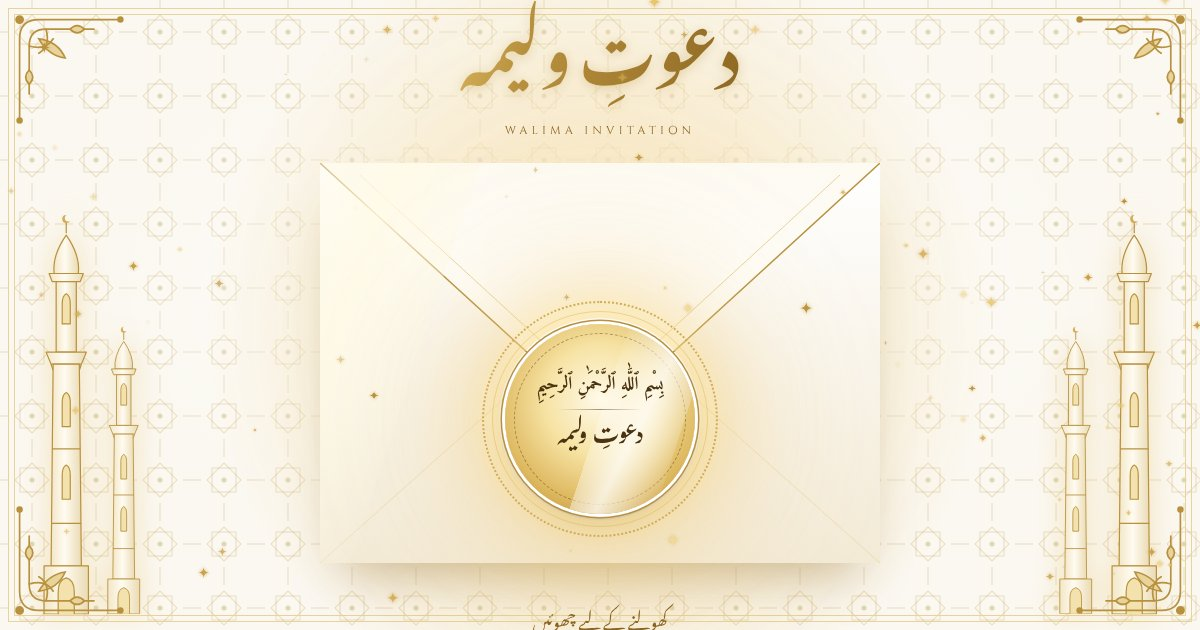
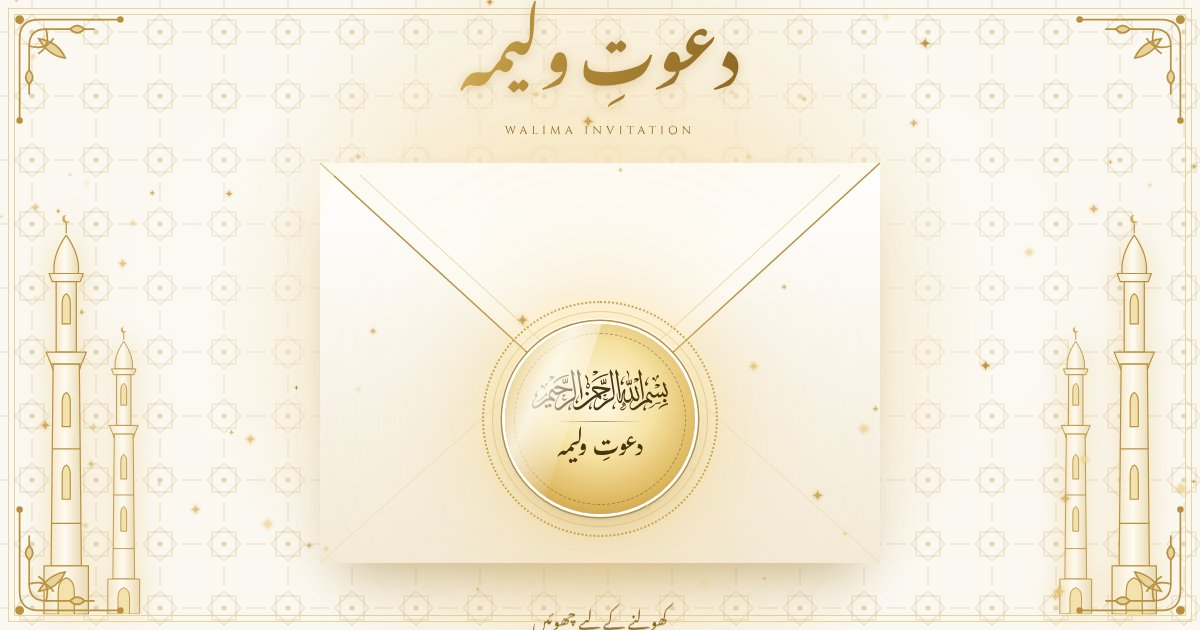
White card: Thuluth Bismillah calligraphy (Hadysylmy, CC BY-SA 4.0) on seal and card; ayah in Quranic script
Claude-Session: https://claude.ai/code/session_0114uiG5UvM8er5AcL78Nz6p

diff --git a/wedding-card-white/index.html b/wedding-card-white/index.html
@@ -17,7 +17,7 @@
 <meta name="twitter:card" content="summary_large_image">
 <link rel="preconnect" href="https://fonts.googleapis.com">
 <link rel="preconnect" href="https://fonts.gstatic.com" crossorigin>
-<link rel="stylesheet" href="https://fonts.googleapis.com/css2?family=Amiri:wght@400;700&family=Gulzar&family=Noto+Nastaliq+Urdu:wght@400;600;700&family=Playfair+Display:ital,wght@1,500&family=Cinzel:wght@400;500&family=EB+Garamond:ital,wght@0,400;0,500;1,400&family=Tiro+Devanagari+Hindi&display=swap">
+<link rel="stylesheet" href="https://fonts.googleapis.com/css2?family=Amiri:wght@400;700&family=Amiri+Quran&family=Gulzar&family=Noto+Nastaliq+Urdu:wght@400;600;700&family=Playfair+Display:ital,wght@1,500&family=Cinzel:wght@400;500&family=EB+Garamond:ital,wght@0,400;0,500;1,400&family=Tiro+Devanagari+Hindi&display=swap">
 <style>
 /* Layout: a pearl-white envelope with a gold seal opens onto a white card framed by gold corner filigree; content runs down one centred column, couples and events go side by side on wide screens. */
 :root {
@@ -100,9 +100,9 @@ body {
 }
 @keyframes foil { 0%, 55% { background-position: 100% 0; } 100% { background-position: -150% 0; } }
 
-.bismillah { font-family: var(--f-arabic); font-size: 2.2rem; line-height: 1.5; }
+.bismillah { display: block; width: min(380px, 82%); height: auto; aspect-ratio: 584.4 / 178.4; fill: url(#bismGold); filter: drop-shadow(0 1px 1px rgba(122,84,24,.25)); }
 .verse { display: flex; flex-direction: column; gap: 2px; }
-.verse .ar { font-family: var(--f-arabic); font-size: 1.4rem; direction: rtl; color: var(--ink); }
+.verse .ar { font-family: "Amiri Quran", var(--f-arabic); font-size: 2.1rem; line-height: 2.2; direction: rtl; padding: 0 .3em .2em; }
 .verse .tr { font-style: italic; color: var(--ink-soft); }
 .label { font-family: var(--f-caps); font-size: .72rem; letter-spacing: .24em; text-transform: uppercase; color: var(--gold-deep); }
 
@@ -178,6 +178,8 @@ h2.sec .en { font-family: var(--f-caps); font-size: .7rem; letter-spacing: .26em
 .host { display: flex; flex-direction: column; align-items: center; gap: 2px; }
 .host-name { font-family: var(--f-callig); font-weight: 700; font-size: 1.55rem; line-height: 2.2; direction: rtl; padding: .1em .3em .35em; }
 .host .en { font-family: var(--f-caps); font-size: .78rem; letter-spacing: .08em; color: var(--ink-soft); margin-top: -.3em; }
+.credit { margin: 8px 0 0; font-size: .68rem; color: var(--ink-soft); opacity: .8; }
+.credit a { color: inherit; }
 .muntazir { display: flex; flex-direction: column; align-items: center; gap: 6px; }
 .muntazir p { margin: 0; max-width: 30em; color: var(--ink); text-wrap: balance; }
 .muntazir .ur { font-family: var(--f-callig); font-size: 1.1rem; line-height: 2.3; direction: rtl; }
@@ -271,7 +273,7 @@ canvas.burst { position: fixed; inset: 0; width: 100%; height: 100%; z-index: 40
   transform: skewX(-18deg); animation: gleam 3s ease-in-out infinite; will-change: transform; }
 @keyframes gleam { 0%, 50% { transform: translateX(0) skewX(-18deg); } 100% { transform: translateX(420%) skewX(-18deg); } }
 .seal > span:not(.seal-gleam) { position: relative; z-index: 2; }
-.seal .bism { font-family: var(--f-arabic); font-weight: 700; font-size: 1rem; line-height: 1.5; color: #4a3410; direction: rtl; padding-inline: 18px; margin-top: -4px; }
+.seal .bism { display: block; width: 72%; height: auto; aspect-ratio: 584.4 / 178.4; fill: #4a3410; margin-top: 6px; }
 .seal .seal-line { width: 84px; height: 1px; background: linear-gradient(90deg, transparent, #4a3410, transparent); opacity: .5; margin-block: 10px 6px; }
 .seal .ur { font-family: var(--f-urdu); font-size: 1.5rem; line-height: 1.7; color: #4a3410; direction: rtl; }
 
@@ -306,7 +308,6 @@ canvas.burst { position: fixed; inset: 0; width: 100%; height: 100%; z-index: 40
   .seal { width: 190px; height: 190px; margin: -95px 0 0 -95px; }
   .seal-ring { width: 236px; height: 236px; margin: -118px 0 0 -118px; }
   .gate-corner { width: 120px; height: 120px; }
-  .seal .bism { font-size: 1.15rem; }
   .seal .ur { font-size: 1.7rem; }
 }
 @media (max-width: 520px) {
@@ -315,12 +316,10 @@ canvas.burst { position: fixed; inset: 0; width: 100%; height: 100%; z-index: 40
   .card::before { inset: 10px; }
   .band { inset: 20px; padding: 7px; background-size: 14px 14px; }
   .corner { width: 70px; height: 70px; }
-  .bismillah { font-size: 1.8rem; }
   .seal { width: 150px; height: 150px; margin: -75px 0 0 -75px; }
   .seal-ring { width: 186px; height: 186px; margin: -93px 0 0 -93px; }
   .gate-corner { width: 64px; height: 64px; }
   .gate { gap: 30px; }
-  .seal .bism { font-size: .9rem; padding-inline: 14px; }
   .seal .seal-line { width: 70px; margin-block: 8px 4px; }
   .seal .ur { font-size: 1.3rem; }
   .replay { padding: 8px 12px; font-size: 1rem; letter-spacing: 0; }
@@ -348,6 +347,15 @@ canvas.burst { position: fixed; inset: 0; width: 100%; height: 100%; z-index: 40
 </head>
 <body>
 
+<svg width="0" height="0" style="position:absolute" aria-hidden="true">
+  <defs>
+    <linearGradient id="bismGold" x1="0" y1="0" x2="1" y2="1">
+      <stop offset="0" stop-color="#8a6420"/><stop offset=".35" stop-color="#c9a14a"/><stop offset=".5" stop-color="#e8c56a"/><stop offset=".65" stop-color="#b8913f"/><stop offset="1" stop-color="#7a5418"/>
+    </linearGradient>
+    <!-- Bismillah calligraphy: Hadysylmy, CC BY-SA 4.0, https://commons.wikimedia.org/w/index.php?curid=109289421 (recoloured) -->
+    <symbol id="bismArt" viewBox="0 0 584.4 178.4"><path d="M352,92.8c0.263,2.399,0.4,5.601,0.4,9.601c0,17.6-3.069,28-9.2,31.199c-6.138,3.2-12.138,6.263-18,9.2 c-6.4,3.462-12.8,8.263-19.2,14.399c-13.338,13.332-23.6,20-30.8,20c-3.738,0-6.669-1.6-8.8-4.799 c-2.137-3.201-3.2-7.069-3.2-11.601c0-6.938,1.862-15.2,5.6-24.8c2.932-6.938,6.131-12.938,9.6-18 c-8.269,4.262-18.668,11.463-31.2,21.6c-16.269,13.863-26,21.863-29.2,24c-10.4,7.463-19.337,11.2-26.8,11.2 c-5.6,0-9.938-2.2-13-6.601c-3.069-4.399-4.6-9.668-4.6-15.799c0-6.4,1.6-12.938,4.8-19.601c-4.538,2.663-8.938,5.2-13.2,7.601 c-7.2,4.262-13.6,8.662-19.2,13.199c-5.869,5.063-11.869,10.131-18,15.2c-7.2,5.862-12.938,8.8-17.2,8.8 c-3.737,0-6.938-1.469-9.6-4.4c-2.938-3.469-4.4-8-4.4-13.6c0-9.068,3.332-20.269,10-33.6c3.463-6.4,7.063-12.801,10.8-19.2 c-4.8,2.663-9.069,4-12.8,4c-4,0-7.4-2.138-10.2-6.399c-2.8-4.27-5.269-6.4-7.4-6.4c-2.4,0-4.869,1.463-7.4,4.4 c-2.537,2.931-3.8,5.199-3.8,6.799c0,3.463,2.663,7.063,8,10.801c4.531,2.932,9.063,5.862,13.6,8.8c0,2.931-0.669,6.8-2,11.601 c-2.4-1.069-4.8-2.4-7.2-4c-4.269-1.869-7.737-2.801-10.4-2.801c-7.469,0-15.469,3.063-24,9.2 c-6.938,5.862-13.869,11.731-20.8,17.601c-7.738,6.131-14.538,9.199-20.4,9.199c-3.469,0-6.469-1.338-9-4 c-2.537-2.668-3.8-6.668-3.8-12c0-5.869,2.131-12.269,6.4-19.199c1.063-1.338,4.8-6,11.2-14l1.2,1.199 c-9.337,11.463-14,20.263-14,26.4c0,6.932,2.932,10.4,8.8,10.4c5.862,0,15.2-5.738,28-17.201c12-10.399,22.8-16,32.4-16.799 c-1.069-4.801-1.6-8.801-1.6-12c0-5.338,1.2-11.069,3.6-17.201C78.931,87.737,82.663,84,87.2,84c2.131,0,4.8,2.668,8,8 c3.2,5.331,6.531,8,10,8c3.2,0,8.8-1.6,16.8-4.801c4.531-1.861,9.2-3.861,14-6L124.8,86c-5.068-1.6-8.668-2.4-10.8-2.4 c-1.337,0-2.4,0.4-3.2,1.2h-16v-1.6c0-3.731,1.6-6.8,4.8-9.2c2.4-2.131,5.331-3.2,8.8-3.2c4.263,0,9.332,1.2,15.2,3.6 c8.8,2.938,14.4,4.8,16.8,5.6c10.931,2.668,22.4,4,34.4,4c0,0.538-0.8,2.538-2.4,6c-1.6,3.469-2.668,5.199-3.2,5.199 c-5.6-1.063-10.8-1.6-15.6-1.6c-3.738,0-9.2,1.4-16.4,4.2c-7.2,2.8-12.4,5.399-15.6,7.8c-2.138,2.131-5.738,8.4-10.8,18.801 c-6.4,13.33-9.6,24.131-9.6,32.399c0,2.931,0.931,5.263,2.8,7c1.862,1.731,4.131,2.601,6.8,2.601c2.932,0,7.731-2.801,14.4-8.4 c4.8-4.27,9.6-8.537,14.4-12.801c5.862-4.268,15.331-10.268,28.4-18c8.8-5.068,13.731-8.938,14.8-11.6 c-0.269-3.469-0.668-7.199-1.2-11.199L168.8,22.8c-0.269-1.063-0.8-2.6-1.6-4.6c-0.8-2-1.2-3.531-1.2-4.6L169.6,0L182,24.8v4 l-6-5.6l10.8,69.6c0.531,3.2,0.8,6.931,0.8,11.2c0,12-1.869,20.662-5.6,26c-3.737,5.331-5.6,11.331-5.6,18 c0,4.262,1.263,7.932,3.8,11c2.531,3.063,5.8,4.6,9.8,4.6c8,0,21.331-7.869,40-23.6c21.6-18.138,36.8-28.938,45.6-32.4 c-0.538-0.537-4.4-3.469-11.6-8.8c-5.337-3.731-8-7.731-8-12c0-5.6,1.862-9.462,5.6-11.6c2.663-1.331,6.931-2,12.8-2 c4.8,0,14.4,1.338,28.8,4c16.263,3.2,27.063,4.938,32.399,5.2c0,0.8-0.6,2.8-1.8,6c-1.2,3.2-2.068,4.938-2.6,5.2 c-11.737,4.531-24.669,10.131-38.8,16.801c2.662,4,4,7.73,4,11.199c0,1.332-0.4,3-1.2,5s-1.601,3-2.4,3 c-0.537,0-2.337-1.269-5.4-3.8c-3.069-2.538-5.4-4.737-7-6.601c-1.869,1.863-4.269,6.264-7.2,13.201 c-3.469,8.531-5.2,16.399-5.2,23.6c0,6.4,2.931,9.6,8.8,9.6c4.531,0,12.932-6.137,25.2-18.4c5.6-5.6,15.2-11.868,28.8-18.799 c10.932-5.069,16.663-9.338,17.2-12.801c-0.269-3.469-0.8-7.199-1.6-11.199L334,22.8c-0.269-1.063-0.8-2.6-1.6-4.6 c-0.801-2-1.2-3.531-1.2-4.6L334.4,0l12.8,24.8v4l-6-5.6L352,92.8z M28.8,88c-6.668,7.199-10,13.063-10,17.6 c0,3.463,1.063,5.2,3.2,5.2c0.531,0,1.063-0.2,1.6-0.601c0.531-0.399,0.931-0.736,1.2-1L25.6,110c-2.669,6.932-5.337,10.4-8,10.4 c-3.2,0-4.8-2-4.8-6c0-4.801,1.8-10.069,5.4-15.801c3.6-5.73,7-9.4,10.2-11L28.8,88z M65.6,110.4c0,3.199-0.669,4.799-2,4.799 c-1.869,0-4.269-1.199-7.2-3.6c-1.337,3.2-3.6,6.932-6.8,11.2c-7.738,9.862-19.469,15.862-35.2,18V140 c13.063-4.801,24-11.6,32.8-20.4c2.931-2.938,6-6.8,9.2-11.6c2.131-3.738,3.6-5.6,4.4-5.6c1.332,0,2.531,1.199,3.6,3.6 C65.2,108.131,65.6,109.6,65.6,110.4z M66.4,64.8c0,2.138-0.8,4.269-2.4,6.4c-1.069-1.6-2.138-2.4-3.2-2.4 c-2.137,0-3.737,2.938-4.8,8.8c-0.8,4.269-1.6,8.4-2.4,12.4c-0.8-2.931-2.8-7.332-6-13.2c-0.538,2.4-1.738,3.6-3.6,3.6 c-1.337,0-2.6-0.6-3.8-1.8c-1.2-1.2-1.8-2.6-1.8-4.2c0-4.263,1.6-6.4,4.8-6.4c3.731,0,7.063,4.269,10,12.8 c2.4-14.931,5.731-22.4,10-22.4C65.331,58.4,66.4,60.538,66.4,64.8z M84,152.8c0,0.8-0.469,2.663-1.4,5.601 c-0.938,2.931-1.8,4.799-2.6,5.6c-4.538-2.4-8.269-4.138-11.2-5.2c-1.068,4-2.269,6.931-3.6,8.8c-5.6-3.199-9.6-5.068-12-5.6 c1.331-3.2,2.662-6.938,4-11.2c4.262,1.063,8.262,2.8,12,5.2c1.063-2.669,2.131-5.6,3.2-8.801C77.2,148.531,81.063,150.4,84,152.8z M64,110.8c-0.8-1.601-1.869-2.8-3.2-3.601c-0.8,0-1.469,0.4-2,1.201C59.862,109.463,61.6,110.262,64,110.8z M95.6,33.6 c-0.8,2.137-2.938,5.2-6.4,9.2c-0.8,0.8-3.2,2.069-7.2,3.8c-4,1.737-7.069,2.6-9.2,2.6c-1.068,0-2.269-0.4-3.6-1.2 c8-2.4,13.331-4.931,16-7.6c-2.669-1.063-5.6-1.6-8.8-1.6c-0.538,0-1.069,0.138-1.6,0.4c-0.537,0.269-1.068,0.4-1.6,0.4 c0-7.463,3.462-10.663,10.4-9.6C87.331,30.269,91.331,31.469,95.6,33.6z M157.6,23.6l-1.2,5.2c-26.4,5.069-48,16.4-64.8,34l0.4-6.4 C109.6,38.538,131.462,27.6,157.6,23.6z M150.8,122.4c-0.8,3.199-2.537,6.131-5.2,8.799c-2.669,2.663-5.469,4-8.4,4 c-5.338,0-8-2.537-8-7.6c0-2.137,2.531-6.4,7.6-12.8c-0.8,0-1.6,0-2.4,0c-2.668,0-5.069,0.931-7.2,2.8l1.6-4.8 c2.663-2.399,5.063-3.601,7.2-3.601c2.663,0,5.2,0.264,7.6,0.801l-2.4,4.8c-1.6,1.063-3.469,2.731-5.6,5 c-2.138,2.263-3.2,4.2-3.2,5.8c0,2.131,2,3.2,6,3.2C143.2,128.8,147.331,126.662,150.8,122.4z M154,52.8c0,5.6-2,8.4-6,8.4 c-1.869,0-3.737-0.931-5.6-2.8c-1.337,3.737-3.6,5.6-6.8,5.6c-2.669,0-4.269-2-4.8-6c-0.269-3.2-0.4-6.4-0.4-9.6 c-0.8,1.337-1.6,2.938-2.4,4.8v-2.8c0.531-1.6,1.2-3.063,2-4.4c1.063-2.131,2.531-3.731,4.4-4.8c-1.337,10.138-0.4,15.2,2.8,15.2 c2.4,0,3.6-1.731,3.6-5.2c0-1.331-0.537-4.262-1.6-8.8l2.4-4c1.331,2.138,2.262,5.469,2.8,10c0.263,3.469,1.462,5.2,3.6,5.2 c1.6,0,2.4-1.063,2.4-3.2l-2-9.2l2.4-5.2C152.931,42.4,154,48,154,52.8z M171.2,143.199c-6.938,7.201-10.4,13.201-10.4,18 c0,3.201,1.063,4.801,3.2,4.801c0.531,0,1.063-0.2,1.6-0.6c0.531-0.4,0.931-0.601,1.2-0.601l0.8,0.399 c-2.669,7.201-5.337,10.801-8,10.801c-3.2,0-4.8-2.138-4.8-6.4c0-4.537,1.8-9.737,5.4-15.6c3.6-5.869,7.131-9.6,10.6-11.2 L171.2,143.199z M202.4,115.199C195.462,122.131,192,128,192,132.8c0,3.2,1.063,4.8,3.2,4.8c0.8,0,1.4-0.199,1.8-0.6 s0.731-0.6,1-0.6l0.8,0.799c-2.668,6.932-5.337,10.4-8,10.4c-3.2,0-4.8-2.137-4.8-6.4c0-4.537,1.8-9.736,5.4-15.6 c3.6-5.869,7.131-9.6,10.6-11.199L202.4,115.199z M215.2,113.199c0,5.601-1.338,11.463-4,17.601h-2c0.531-7.2,0-16-1.6-26.399 L194.8,22.8c-0.269-1.063-0.8-2.6-1.6-4.6c-0.8-2-1.2-3.531-1.2-4.6L195.6,0L208,24.8v4l-6-5.6l12.8,80.8 C215.063,105.862,215.2,108.932,215.2,113.199z M247.2,71.2c0,2.938-0.869,5.738-2.6,8.4c-1.738,2.668-3.938,4-6.6,4 c-4.269,0-6.4-2.4-6.4-7.2c0-1.063,0.862-4.331,2.6-9.8c1.731-5.463,2.6-10.063,2.6-13.8c0-6.663-2.668-12-8-16 c0-0.262-0.4-4.262-1.2-12c3.731,2.4,6.8,5.869,9.2,10.4c2.4,4.538,3.6,8.8,3.6,12.8c0,4.538-0.538,8.269-1.6,11.2 C244.4,61.069,247.2,65.069,247.2,71.2z M243.6,103.199c0,0.801-0.538,2.601-1.6,5.4c-1.069,2.801-1.869,4.731-2.4,5.801 c-5.869-3.201-9.869-5.069-12-5.601c1.063-3.469,2.4-7.2,4-11.2C236.4,98.932,240.4,100.8,243.6,103.199z M245.6,72.4 c-1.6-2.931-4.4-5.063-8.4-6.4c-1.869,2.137-2.8,4.269-2.8,6.4c0,2.938,1.332,4.4,4,4.4C240.8,76.8,243.2,75.337,245.6,72.4z M259.6,140.4c-6.938,7.199-10.4,13.063-10.4,17.6c0,3.463,1.2,5.199,3.6,5.199c0.263,0,0.731-0.199,1.4-0.6c0.662-0.4,1-0.737,1-1 l0.8,0.801c-2.4,7.199-5.069,10.799-8,10.799c-3.2,0-4.8-2.137-4.8-6.399c0-4.538,1.862-9.868,5.6-16 c3.731-5.601,7.2-9.337,10.4-11.2L259.6,140.4z M327.6,18.8L323.2,26c-13.069,2.668-25.938,7.2-38.6,13.6 C271.931,46,261.462,53.469,253.2,62l3.6-8.8c8-8,18.663-15.331,32-22C302.131,24.538,315.063,20.4,327.6,18.8z M282.8,12 c-0.8,2.137-2.938,5.069-6.4,8.8c-0.8,0.8-3.2,2-7.2,3.6s-7.069,2.4-9.2,2.4c-0.8,0-1.869-0.262-3.2-0.8 c7.731-2.4,12.932-4.931,15.6-7.6c-2.668-0.8-5.6-1.2-8.8-1.2c-0.269,0-0.738,0.069-1.4,0.2c-0.669,0.138-1.138,0.2-1.4,0.2 c0-7.2,3.332-10.4,10-9.6C274.531,8.538,278.531,9.869,282.8,12z M312.8,90.8c-16.269-3.731-29.6-5.6-40-5.6 c-5.337,0-9.469,0.4-12.4,1.2c7.2,4.268,12.263,7.469,15.2,9.6c1.862,1.862,4.531,4.262,8,7.199L312.8,90.8z M318,56.4 c0,5.6-2,8.4-6,8.4c-1.6,0-3.469-1.063-5.6-3.2c-1.069,3.737-3.2,5.6-6.4,5.6c-2.938,0-4.669-2-5.2-6c0-2.931,0-6,0-9.2 c-0.8,1.337-1.737,2.938-2.8,4.8V54c0.531-1.6,1.2-3.063,2-4.4c1.331-2.131,2.8-3.731,4.4-4.8c-1.069,9.869,0,14.8,3.199,14.8 c2.4,0,3.601-1.6,3.601-4.8c0-1.6-0.538-4.531-1.601-8.8l2.4-4c1.331,1.869,2.263,5.2,2.8,10c0,3.469,1.2,5.2,3.601,5.2 c1.6,0,2.399-1.063,2.399-3.2c0-0.263-0.8-3.332-2.399-9.2l2.8-5.2C317.063,46,318,51.6,318,56.4z M326.4,121.6 c-0.801,3.2-2.538,6.063-5.2,8.6c-2.669,2.531-5.469,3.801-8.4,3.801c-5.068,0-7.6-2.4-7.6-7.2c0-2.399,2.399-6.669,7.2-12.8 c-0.801,0-1.601,0-2.4,0c-2.938,0-5.338,0.8-7.2,2.4l1.601-4.4c2.662-2.669,5.063-4,7.199-4c2.663,0,5.332,0.4,8,1.199L316.8,114 c-1.6,0.8-3.469,2.4-5.6,4.8c-2.138,2.399-3.2,4.399-3.2,6c0,2.132,2,3.2,6,3.2C318.8,128,322.932,125.862,326.4,121.6z M359.6,140 c-6.668,6.932-10,12.8-10,17.6c0,3.463,1.2,5.2,3.601,5.2c0.263,0,1.063-0.538,2.399-1.601l0.801,0.4 c-2.669,7.2-5.338,10.801-8,10.801c-3.2,0-4.801-2.139-4.801-6.4c0-4.537,1.863-9.738,5.601-15.6 c3.731-5.869,7.2-9.601,10.399-11.201V140z M378.4,113.199c0,5.601-1.338,11.463-4,17.601H372.8c0.263-7.2-0.537-16-2.399-26.399 L358,22.8c-0.269-1.063-0.8-2.6-1.6-4.6c-0.801-2-1.2-3.531-1.2-4.6L358.8,0l12.4,24.8v4l-5.601-5.6l12,80.8 C378.131,105.862,378.4,108.932,378.4,113.199z M580.4,100.4c0,4.531-0.801,8.662-2.4,12.399c-2.4,4.8-5.469,7.2-9.2,7.2 c-1.868,0-4.2-0.869-7-2.6c-2.8-1.738-4.6-3.538-5.399-5.4c-0.538,1.331-1.601,3.063-3.2,5.199c-2.669,2.932-5.737,4.4-9.2,4.4 c-2.669,0-4.4-0.668-5.2-2c-1.068-2.137-2.269-4-3.6-5.6c-5.869,5.862-10.8,8.8-14.8,8.8c-4.27,0-7.601-1.469-10-4.399 c-1.069-0.801-2.538-3.201-4.4-7.201c-1.068-2.668-2.537-4-4.4-4c-2.668,0-4.938,1.732-6.8,5.201c-1.6,2.662-2.399,4.662-2.399,6 c0,4.799,6.931,10.662,20.8,17.6c0.531,0.262,0.531,2.262,0,6c-0.8,3.463-1.469,5.331-2,5.6c-2.669-1.068-5.2-2.137-7.601-3.199 c-2.938-1.338-5.469-2-7.6-2c-7.469,0-15.6,2.931-24.4,8.799c-6.938,5.332-14,10.801-21.199,16.4 c-7.738,5.863-14.138,8.801-19.2,8.801c-3.2,0-6.269-1.601-9.2-4.801c-3.469-3.469-5.2-7.6-5.2-12.4 c0-8.799,4.531-18.268,13.601-28.399c0-0.269-0.538-1.069-1.601-2.399c-1.068-1.338-1.6-2.67-1.6-4h-0.8 c-2.4,7.199-4.669,12.131-6.801,14.799c-2.938,3.463-6.8,5.201-11.6,5.201c-11.2,0-16.8-9.069-16.8-27.201 c0-2.938,0.131-6.399,0.399-10.399l0.4-4.8c-1.869,2.662-3.2,7.463-4,14.4c-0.537,5.6-1.2,11.063-2,16.399 c-1.6,9.063-4.4,13.601-8.4,13.601c-5.337,0-9.469-4.67-12.399-14c-2.138-6.938-3.2-13.469-3.2-19.601c0-5.601,0.4-9.2,1.2-10.8 c0,0.262,0.263,0.8,0.8,1.6c-0.269,4.801,0.263,10.662,1.6,17.6c1.863,10.4,5.063,15.601,9.601,15.601c2.131,0,4-1.737,5.6-5.2 c1.063-2.938,1.601-5.6,1.601-8c0.531-3.737,1.199-9.068,2-16c0.262-2.938,1.6-7,4-12.199c2.399-5.201,4.662-8.863,6.8-11 c1.063,0,2,1.138,2.8,3.4c0.8,2.269,1.2,4.069,1.2,5.399c-2.4,10.663-3.601,18.4-3.601,23.201c0,3.73,0.801,7.199,2.4,10.399 c2.131,4,5.2,6,9.2,6c4.531,0,8.462-1.538,11.8-4.601c3.331-3.068,5-6.736,5-11c0-3.736-1.269-9.6-3.8-17.6 c-2.538-8-3.8-12.8-3.8-14.4c0,0.269,0.662-2.531,2-8.4c0.262,0,0.931,0.138,2,0.4c4,5.338,7.73,17.869,11.199,37.6 c0.801,3.2,2.663,6,5.601,8.399c2.931,2.4,5.862,3.601,8.8,3.601c3.463,0,6.131-1.069,8-3.2c-1.338-4.8-4.4-13.338-9.2-25.6 c-4.269-11.462-6.399-17.332-6.399-17.6c0-0.263,0.662-3.462,2-9.6c1.331,1.337,5.331,5.869,12,13.6v2c-0.801,0-2.538-0.663-5.2-2 c7.731,18.131,11.6,29.462,11.6,34c0,4.799-1.068,9.063-3.2,12.799c-2.399,4.531-6,6.801-10.8,6.801c-5.068,0-9.068-1.738-12-5.2 c-2.669,2.399-5.2,5.862-7.6,10.399c-3.469,5.601-5.2,10.264-5.2,14c0,2.4,0.731,4.663,2.2,6.801 c1.462,2.131,3.662,3.199,6.6,3.199c3.731,0,11.2-4.268,22.4-12.799c14.931-10.938,22.8-16.67,23.6-17.201 c2.663-1.337,4.8-2.399,6.4-3.199c2.662-1.068,5.331-1.6,8-1.6c0-1.338-0.2-3.4-0.601-6.201c-0.399-2.799-0.6-4.337-0.6-4.6 c0-4.8,1.6-10.137,4.8-16c3.463-6.4,7.2-9.6,11.2-9.6c1.331,0,3.531,2.531,6.6,7.6c3.063,5.063,7,7.6,11.801,7.6 c4.8,0,8.399-1.337,10.8-4c4.8-5.068,7.6-8,8.399-8.799c0.263,0.262,0.2,1.262-0.199,3c-0.4,1.73-0.601,3-0.601,3.799 c0,3.732,1.731,5.601,5.2,5.601c3.463,0,6-1.601,7.6-4.8c2.663-5.338,4.531-8.537,5.601-9.6c0.531,3.73,1.862,6.73,4,9 c2.131,2.262,4.399,3.399,6.8,3.399c1.331,0,2.932-0.669,4.8-2v-1.601c-2.938-6.668-6.938-16.531-12-29.599 c-0.537-1.863-1.337-3.863-2.399-6c-0.27-0.8-0.669-1.8-1.2-3c-0.538-1.2-0.8-2.063-0.8-2.6c0-0.531,0.531-2.2,1.6-5 c1.063-2.8,1.731-4.462,2-5c1.331,1.337,5.2,6.538,11.6,15.6c-0.537,0.8-0.668,1.337-0.399,1.6l-4.8-2 c-0.27,0.269-0.4,0.538-0.4,0.8C576.263,84.938,580.4,95.068,580.4,100.4z M404,158c-5.338,12.531-12.138,18.8-20.4,18.8 c-4.269,0-6.399-2.8-6.399-8.399c0-1.338,2.131-3.27,6.399-5.801c4.263-2.537,6.531-4.737,6.801-6.6 c-2.938-0.537-4.538-1.469-4.801-2.801c-0.269-1.337,0.063-3.068,1-5.199c0.932-2.138,1.801-3.338,2.601-3.6l-1.2-2l0.4-1.201 c1.063,0,2.8,0.531,5.199,1.601v0.8c2.132,1.332,4.4,3.731,6.801,7.2c0.8,4,0,6.132-2.4,6.399c-1.6,0.264-3.469,0.132-5.6-0.399 c-0.27,3.2-1.738,5.862-4.4,8c-2.669,1.331-5.6,3.331-8.8,6c0.8,0.8,2.662,1.2,5.6,1.2c3.463,0,7.331-2,11.601-6 c2.931-2.938,5.199-5.738,6.8-8.4L404,158z M397.2,31.2c-7.737,8-11.601,14.669-11.601,20c0,3.738,1.332,5.6,4,5.6 c0.531,0,1.063-0.262,1.601-0.8c0.531-0.531,0.931-0.8,1.2-0.8l0.8,0.8c-2.938,8-5.869,12-8.8,12c-3.738,0-5.601-2.4-5.601-7.2 c0-5.063,2-11.063,6-18c4.263-6.4,8.263-10.663,12-12.8L397.2,31.2z M392.8,148.8c-0.269-1.069-0.938-1.469-2-1.2 c-1.6,0.263-2.669,1.063-3.2,2.4c1.332,1.331,2.663,2,4,2C392.4,150.662,392.8,149.6,392.8,148.8z M398.8,152.8 c-1.068-0.8-2.537-2-4.399-3.601L394,152.8c0.8,0.531,1.862,0.663,3.2,0.399C397.731,153.199,398.263,153.063,398.8,152.8z M426.8,59.2c0,5.869-2,8.8-6,8.8c-1.6,0-3.469-1.063-5.6-3.2c-1.069,3.738-3.2,5.6-6.4,5.6c-2.938,0-4.669-2-5.2-6 c0-2.931,0-6,0-9.2c-0.8,1.338-1.737,2.938-2.8,4.8v-3.2c0.531-1.331,1.2-2.8,2-4.4c1.331-2.131,2.8-3.731,4.4-4.8 c-1.069,9.869-0.138,14.8,2.8,14.8c2.4,0,3.6-1.6,3.6-4.8c0-1.332-0.399-4.263-1.199-8.8l2.399-4c1.331,2.138,2.132,5.6,2.4,10.4 c0.263,3.2,1.462,4.8,3.6,4.8c1.862,0,2.8-0.931,2.8-2.8c0-0.262-0.8-3.331-2.399-9.2l2.399-5.6 C425.731,48.8,426.8,54.4,426.8,59.2z M415.2,28c0,5.869-1.2,12.269-3.601,19.2c0.531-4,0.801-8.131,0.801-12.4 c0-8.8-2.669-15.6-8-20.4l0.8-9.2c3.2,2.4,5.731,6.138,7.6,11.2C414.4,20.668,415.2,24.538,415.2,28z M458,42.8 c-0.8,2.138-2.8,4.938-6,8.4c-0.8,1.069-3.2,2.338-7.2,3.8c-4,1.469-6.938,2.2-8.8,2.2c-1.068,0-2.269-0.131-3.6-0.4 c7.73-2.4,12.931-4.931,15.6-7.6c-2.669-1.063-5.469-1.6-8.4-1.6c-0.537,0-1.137,0.137-1.8,0.4c-0.669,0.269-1.138,0.4-1.399,0.4 c0-7.2,3.331-10.4,10-9.6C450.131,39.337,454,40.668,458,42.8z M477.2,113.199c0,6.932-0.938,12.801-2.8,17.601h-3.2 c0.531-7.2,0-16-1.601-26.399L456.8,22.8c-0.269-1.063-0.8-2.6-1.6-4.6s-1.2-3.531-1.2-4.6L457.6,0L470,24.8v4l-6-5.6l12.8,80.8 C477.063,105.862,477.2,108.932,477.2,113.199z M492,145.6c-6.938,6.932-10.4,12.801-10.4,17.6c0,3.463,1.2,5.201,3.601,5.201 c0.263,0,0.731-0.27,1.399-0.801c0.663-0.537,1.132-0.8,1.4-0.8l0.4,0.8c-2.4,7.2-4.938,10.801-7.601,10.801 c-3.469,0-5.2-2.27-5.2-6.801c0-4.537,1.863-9.737,5.601-15.6c3.731-5.869,7.2-9.6,10.399-11.2L492,145.6z M501.6,34.4 c-7.737,8-11.6,14.8-11.6,20.4c0,3.738,1.2,5.6,3.6,5.6c0.531,0,1.132-0.263,1.801-0.8c0.662-0.531,1.131-0.8,1.399-0.8l0.8,0.4 c-2.938,8.269-5.868,12.4-8.8,12.4c-3.737,0-5.6-2.531-5.6-7.6c0-5.063,2.063-10.931,6.2-17.6c4.131-6.663,8.063-10.931,11.8-12.8 L501.6,34.4z M549.6,139.199c0.263,2.132,0,4.132-0.8,6c-0.8,1.863-1.868,2.801-3.2,2.801c-1.6,0-2.8-0.669-3.6-2 c-1.869,2.662-3.469,4-4.8,4c-0.8,0-1.938-0.338-3.4-1c-1.469-0.669-2.6-1-3.399-1c-0.538,0-2.4,1.73-5.601,5.199 c-3.737,4.531-8.138,8.132-13.2,10.801c-4.269,2.4-10,4-17.199,4.8V168.4c10.662-4.538,20-10.27,28-17.201 c6.662-5.6,10.399-8.399,11.199-8.399c0.801,0,1.663,0.331,2.601,1c0.931,0.663,1.662,1,2.2,1c1.6,0,3.462-1.601,5.6-4.8l0.4,0.8 c-0.801,1.601-0.4,2.399,1.199,2.399c1.601,0,2.663-1.199,3.2-3.6L549.6,139.199z M541.2,32.4c0,1.869-0.669,3.869-2,6 c-1.338-1.331-2.538-2-3.601-2c-1.868,0-3.337,2.669-4.399,8c-0.8,4-1.469,8.138-2,12.4c-1.069-3.2-3.069-7.462-6-12.8 c-0.538,2.4-1.737,3.6-3.601,3.6c-1.068,0-2.199-0.6-3.399-1.8c-1.2-1.2-1.8-2.6-1.8-4.2c0-4.263,1.462-6.4,4.399-6.4 c3.731,0,6.932,4.269,9.601,12.8c2.399-14.663,5.6-22,9.6-22C540.131,26,541.2,28.137,541.2,32.4z M547.6,67.6 c-0.8,2.137-2.8,5.068-6,8.8c-0.8,0.538-3.199,1.669-7.199,3.4c-4,1.738-6.938,2.6-8.801,2.6c-0.8,0-1.868-0.263-3.199-0.8 c7.462-2.4,12.531-4.932,15.199-7.6c-2.399-0.8-5.199-1.2-8.399-1.2c-0.538,0-1.069,0.069-1.601,0.2 c-0.537,0.137-1.068,0.2-1.6,0.2c0-7.2,3.331-10.262,10-9.2C539.731,64.269,543.6,65.469,547.6,67.6z M584.4,145.199l-2,6.4 c-17.069,3.463-30.938,10.801-41.601,22l1.601-7.199C553.6,154.662,567.6,147.6,584.4,145.199z M575.2,132.4 c0,1.063-0.538,3-1.601,5.799c-1.068,2.801-1.868,4.601-2.399,5.4c-5.869-2.938-9.869-4.668-12-5.199 c1.063-3.469,2.399-7.338,4-11.601C568,128.131,572,130,575.2,132.4z"/></symbol>
+  </defs>
+</svg>
 <div class="gate" id="gate" role="button" tabindex="0" aria-label="Open the invitation">
   <div class="glow" aria-hidden="true"></div>
   <svg width="0" height="0" style="position:absolute" aria-hidden="true">
@@ -409,7 +417,7 @@ canvas.burst { position: fixed; inset: 0; width: 100%; height: 100%; z-index: 40
     <div class="seal-ring"></div>
     <div class="seal">
       <span class="seal-gleam" aria-hidden="true"></span>
-      <span class="bism" lang="ar">بِسْمِ ٱللَّٰهِ ٱلرَّحْمَٰنِ ٱلرَّحِيمِ</span>
+      <svg class="bism" viewBox="0 0 584.4 178.4" role="img" aria-label="بسم الله الرحمن الرحيم"><use href="#bismArt"/></svg>
       <span class="seal-line"></span>
       <span class="ur" lang="ur">دعوتِ ولیمہ</span>
     </div>
@@ -452,10 +460,10 @@ canvas.burst { position: fixed; inset: 0; width: 100%; height: 100%; z-index: 40
       <circle cx="75" cy="2" r="2" fill="#b8913f"/>
     </svg>
 
-    <div class="bismillah foil" lang="ar">بِسْمِ ٱللَّٰهِ ٱلرَّحْمَٰنِ ٱلرَّحِيمِ</div>
+    <svg class="bismillah" viewBox="0 0 584.4 178.4" role="img" aria-label="بسم الله الرحمن الرحيم"><use href="#bismArt"/></svg>
 
     <div class="verse">
-      <div class="ar" lang="ar">وَخَلَقْنَاكُمْ أَزْوَاجًا</div>
+      <div class="ar foil" lang="ar">وَخَلَقْنَاكُمْ أَزْوَاجًا</div>
       <div class="tr">“And We created you in pairs.”</div>
       <div class="label">Surah An-Naba · 78:8</div>
     </div>
@@ -563,6 +571,7 @@ canvas.burst { position: fixed; inset: 0; width: 100%; height: 100%; z-index: 40
     </div>
     </div>
 
+    <p class="credit">Bismillah calligraphy by Hadysylmy, <a href="https://creativecommons.org/licenses/by-sa/4.0/" target="_blank" rel="noopener">CC BY-SA 4.0</a>, via <a href="https://commons.wikimedia.org/w/index.php?curid=109289421" target="_blank" rel="noopener">Wikimedia Commons</a> (recoloured)</p>
   </div>
 </main>
 
